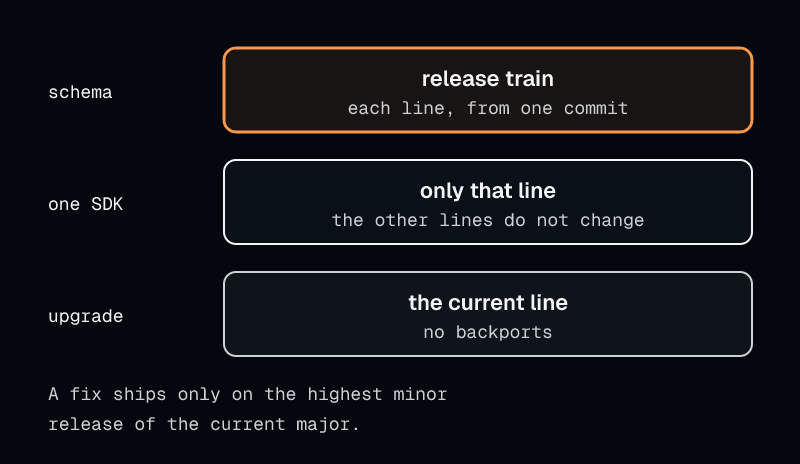
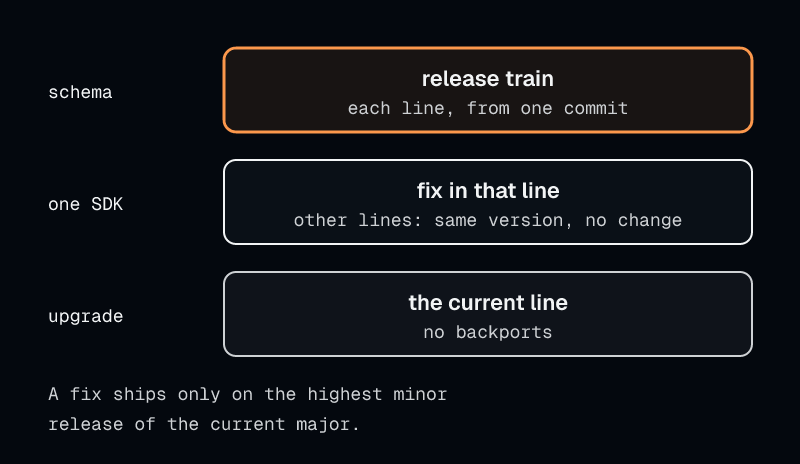
SM-1281 Keep the release lines in lockstep after 1.0.0
The compatibility document gave two rules for the release lines after
1.0.0. The release train said that every release publishes one version.
The 1.0.0 section said that the lines float again after 1.0.0. The
release check, the release workflows, and the Go release script follow
the first rule only. Thus a go/v1.1.0 tag with floating lines fails the
release check. SECURITY.md and the releases page also said that a fix in
one SDK releases only that line.

ADR 0106 keeps the six lines in lockstep before and after 1.0.0. If the
defect is in one SDK, the fix ships in a release train like any other
release. Each other line publishes the same version with no change, a
version-only release, as in 0.6.1 and 0.7.1. From 1.0.0, if a change
needs a major release on one line, the next release is a major for
every line. The ADR states what makes the maintainer revisit the
decision.

docs/compatibility.md, SECURITY.md, the releases page, and its diagram
now state the lockstep rule. ADRs 0028, 0054, 0058, 0059, 0079, 0084,
and 0103 keep their text and name ADR 0106 as an amendment.
pnpm release:check keeps its scope.

Changed region(s): [[0.375, 0.3922, 0.8438, 0.5129]]

diff --git a/scripts/releases-diagram.ts b/scripts/releases-diagram.ts
@@ -3,22 +3,24 @@ import { Diagram, MONO, SANS, type Theme } from "./diagram-svg.js";
 /**
  * The diagram of `site/content/docs/releases.mdx`. It uses the names of that page.
  *
- * "Upgrade to the current line to get a fix": the location of the defect decides which lines get a
- * new release. A defect in the SQL schema or in the protocol that the SDKs share gives each line
- * the fix in one release train. A defect in one SDK gives only that line a new release. The fix
- * ships only on the highest published minor release of the current major, with no backports.
+ * "Upgrade to the current line to get a fix": each fix ships in a release train, and the location of
+ * the defect decides which lines change. A defect in the SQL schema or in the protocol that the SDKs
+ * share gives each line the fix. A defect in one SDK gives that line the fix, and each other line
+ * publishes the same version with no change (ADR 0106). The fix ships only on the highest published
+ * minor release of the current major, with no backports.
  *
  * Check each fact against its source before you change a label.
  */
 
 type Kind = "focal" | "backend" | "store" | "external";
 
-const title = "The location of the defect decides which lines get a new release";
+const title = "The location of the defect decides which lines change in a release train";
 const description =
-  "If the defect is in the SQL schema or in the protocol that the SDKs share, the npm packages, " +
-  "Python, Go, Rust, Ruby, and JVM lines each get the fix in one release train. If the defect is in " +
-  "one SDK, for example Python, only that line gets a new release. Each fix ships only on the highest " +
-  "published minor release of the current major.";
+  "Each fix ships in a release train that publishes the npm packages, Python, Go, Rust, Ruby, and " +
+  "JVM lines at one version. If the defect is in the SQL schema or in the protocol that the SDKs " +
+  "share, each line gets the fix. If the defect is in one SDK, for example Python, that line gets " +
+  "the fix. Each other line publishes the same version with no change. Each fix ships only on " +
+  "the highest published minor release of the current major.";
 
 const lines = ["npm packages", "Python", "Go", "Rust", "Ruby", "JVM"] as const;
 
@@ -50,7 +52,7 @@ export const releaseLines = {
     });
     const right = x(lines.length - 1) + WIDTH;
     d.divider(LEFT, right, 52);
-    d.zone(LEFT - 8, 64, right - LEFT + 16, 80, "ONE RELEASE TRAIN · ONE COMMIT");
+    d.zone(LEFT - 8, 64, right - LEFT + 16, rows.length * 88 - 8, "ONE RELEASE TRAIN · ONE COMMIT");
     rows.forEach(([label, released], row) => {
       const y = 88 + row * 88;
       d.rows(
@@ -64,9 +66,9 @@ export const releaseLines = {
       );
       released.forEach((isReleased, col) => {
         if (isReleased) {
-          d.box(x(col), y, WIDTH, 44, "backend", "new release", undefined, 11);
+          d.box(x(col), y, WIDTH, 44, "backend", "fix", undefined, 11);
         } else {
-          d.rows(x(col) + WIDTH / 2, y + 26, [["no change", 9, "soft", MONO, 400]]);
+          d.rows(x(col) + WIDTH / 2, y + 26, [["version only", 9, "soft", MONO, 400]]);
         }
       });
     });
@@ -91,7 +93,7 @@ export const releaseLines = {
 
 const events: readonly (readonly [label: string, kind: Kind, name: string, sub: string])[] = [
   ["schema", "focal", "release train", "each line, from one commit"],
-  ["one SDK", "backend", "only that line", "the other lines do not change"],
+  ["one SDK", "backend", "fix in that line", "other lines: same version, no change"],
   ["upgrade", "store", "the current line", "no backports"],
 ];
 

diff --git a/docs/decisions/0106-keep-the-release-lines-in-lockstep-after-1-0-0.md b/docs/decisions/0106-keep-the-release-lines-in-lockstep-after-1-0-0.md
@@ -1,0 +1,138 @@
+# ADR 0106: Keep the release lines in lockstep after 1.0.0
+
+- **Status:** Accepted
+- **Date:** 2026-10-22
+- **Amends:** [ADR 0028](0028-flat-per-language-repository-layout.md) (package versions do not
+  float per language),
+  [ADR 0054](0054-define-what-1-0-0-promises.md) (the lines do not float again after
+  1.0.0),
+  [ADR 0058](0058-fix-the-current-line-and-gate-floors-on-upstream-end-of-life.md) (a fix in one SDK
+  releases every line),
+  [ADR 0059](0059-assemble-the-1-0-0-specification.md),
+  [ADR 0079](0079-govern-the-rust-api-as-an-eighth-surface.md),
+  [ADR 0084](0084-govern-the-ruby-api-as-a-ninth-surface.md),
+  [ADR 0103](0103-shape-the-jvm-sdk-as-a-java-core-with-kotlin-and-spring-boot-modules.md)
+- **Related:** [ADR 0050](0050-release-0-1-0-without-a-prerelease-suffix.md),
+  [ADR 0102](0102-keep-main-open-during-a-release-by-tagging-the-candidate-commit.md)
+- **Issue:** SM-1281. SM-1275 made `pnpm release:check` check every release path.
+
+## Context
+
+Workhorse publishes six release lines. They are the ten npm packages, the Python distribution, the
+Go module, the Rust crate, the Ruby gem, and the three JVM artifacts. A release line is the sequence
+of versions that one of these publishes.
+
+The documentation gave two rules for the lines after 1.0.0:
+
+1. `docs/compatibility.md`, "Release train": every release publishes the same version from one
+   source commit.
+2. ADR 0028 said that package versions float independently per language. ADR 0054 said that the
+   lines synchronize once at 1.0.0. After 1.0.0, each line floats independently. ADRs 0059, 0079,
+   0084, and 0103 repeated that rule.
+
+ADR 0058 also said that a defect in one SDK ships on that line alone, and that the other lines do
+not move. `SECURITY.md`, the site page `releases.mdx`, and its diagram repeated that rule.
+
+The release tooling follows the first rule only:
+
+1. `scripts/check-release.ts` reads every file that carries the release version, and it refuses a
+   candidate if one line has a different version, for every tag.
+2. The crate, gem, and Maven Central jobs of `.github/workflows/release.yml` have no tag of their
+   own. They publish from the npm `vX.Y.Z` tag and compare their version with it.
+3. `scripts/release-go.sh` refuses to tag unless `vX.Y.Z` and `python/vX.Y.Z` point to the same
+   commit (ADR 0102).
+
+Under the second rule, a `go/v1.1.0` tag fails the release check unless every line is at 1.1.0.
+
+The releases so far also follow the first rule. 0.6.1 exists only to publish the Python
+distribution with PEP 740 attestations. 0.7.1 exists only because the npm publish of 0.7.0 stopped
+partway. In both releases, every other line published the same version with no change. The
+changelog of each such line says so, for example "The crate has no changes in 0.6.1. It releases at
+0.6.1 to keep one version across the registries."
+
+## Decision
+
+The six release lines stay in lockstep before and after 1.0.0. Every release publishes every line
+at one version, from one source commit, as one release train. 1.0.0 is not a special
+synchronization. It is one more release of the train.
+
+### A fix in one line releases every line
+
+If the defect is in one SDK, the fix ships in a release train like any other release. Each other
+line publishes the same version with no change, a version-only release. The changelog of that line
+states that it has no changes, as the 0.6.1 and 0.7.1 changelogs do.
+
+The fix still ships only on the highest published minor of the current major (ADR 0058). This ADR
+changes which lines publish, not which versions receive a fix.
+
+### A major in one line is a major for every line
+
+This rule starts at 1.0.0. Before 1.0.0, a minor release can make a breaking change. From 1.0.0, if
+a change needs a major release on one line, the next release is a major release. Every line
+publishes that major. A line with no break publishes the major as a version-only release. Its
+changelog states that it has no breaking change.
+
+A break of `dashboard/v1` does not need a major release. It creates `dashboard/v2`, as
+`docs/compatibility.md` states.
+
+For the Go module, each major N from 2 also changes the module path to end in `/vN`. For example,
+2.0.0 uses `github.com/stablemates/workhorse/go/v2`. A Go caller must then change its import paths,
+also when the Go API has no break. 1.0.0 keeps the current module path.
+
+### `pnpm release:check` keeps its scope
+
+`scripts/check-release.ts` already checks one version for every line on every tag. It does not
+change. The crate, gem, and Maven Central steps of `release.yml` continue to publish from the npm
+tag.
+
+### Earlier records keep their text
+
+ADRs 0028, 0054, 0058, 0059, 0079, 0084, and 0103 keep their decision text. Their status block
+names this ADR as an amendment. `docs/compatibility.md`, `SECURITY.md`, and the site state the lockstep rule.
+
+## Why
+
+1. One version tells a reader which artifacts belong together. The SQL protocol, the schema floor,
+   and the dashboard bundle are the same in each line of one release.
+2. The release tooling, the release check, and the release procedure already assume one version on
+   one candidate commit. Floating lines need a separate tag and a separate check for the crate, the
+   gem, and the JVM artifacts. The project has no use for them now.
+3. A version-only release costs one changelog entry and one publish job. The 0.6.1 and 0.7.1
+   releases show that the cost is small.
+
+## Revisit this decision
+
+The maintainer revisits this decision if one of these occurs:
+
+1. A major release of one line forces a major for the other lines. The Go module path change
+   costs Go callers more than the shared version gives them.
+2. One line needs releases much more often than the others. The version-only releases of the other
+   lines become frequent.
+3. A registry needs a release that the other registries cannot publish in the same window. Thus one
+   train cannot publish all six lines.
+
+A change to floating lines must give each line its own tag. `scripts/check-release.ts` must then
+check each line against its own tag. The crate, gem, and Maven Central steps of `release.yml` must
+do the same. Tests must cover each check.
+
+## Consequences
+
+- Every release changes the version of every line, also of a line with no change.
+- A defect in one SDK cannot ship faster than one release train.
+- The Go module moves to a new module path at each major of the train from 2.0.0.
+- `docs/compatibility.md`, `SECURITY.md`, `site/content/docs/releases.mdx`, and its diagram state
+  one rule.
+
+## Rejected alternatives
+
+### Let the lines float after 1.0.0
+
+ADR 0054 chose this. Each line would follow SemVer on its own surfaces. Thus a break in one SDK
+would not move the others. It is rejected for now. The release tooling would need a tag and a check
+for each line, and no line has asked for an independent release yet.
+
+### Keep one minor version, and let each line take its own patch
+
+This keeps the lines close and lets a fix in one SDK skip the version-only releases. It is
+rejected. The crate, the gem, and the JVM artifacts publish from the npm tag. A patch on one of them
+would need a tag of its own.

diff --git a/docs/compatibility.md b/docs/compatibility.md
@@ -574,9 +574,11 @@ The release notes announce a `dashboard/v2` transition and give its upgrade step
 backend serves one bound contract rather than negotiating concurrent versions, so `Deprecation`
 and `Sunset` response headers do not apply.
 
-The six language lines float independently, and each line has its own governed surfaces. For
-example, a Go `/v2` does not move the TypeScript, Python, Rust, Ruby, or JVM major. Only a protocol
-break moves all six at once.
+Each language line has its own governed surfaces, but the six lines share one version. From 1.0.0,
+if a change needs a major release on one line, the next release is a major for every line. A line
+with no break publishes the major as a version-only release. For the Go module, each major N from 2
+also changes the module path to end in `/vN`, for example `github.com/stablemates/workhorse/go/v2`.
+[ADR 0106](decisions/0106-keep-the-release-lines-in-lockstep-after-1-0-0.md) records the decision.
 
 The runtime support matrix and the declared dependency ranges are not on this list. They move by
 their own rule, in a minor and only on upstream end of life; see [Raising a floor](#raising-a-floor).
@@ -664,8 +666,9 @@ the command anyway is the point: the procedure is the same one every other relea
 
 All six lines publish 1.0.0 from one source commit as one release train
 ([ADR 0079](decisions/0079-govern-the-rust-api-as-an-eighth-surface.md), [ADR 0084](decisions/0084-govern-the-ruby-api-as-a-ninth-surface.md)). A line that
-cannot clear the parity bar slips the train rather than being left behind. That synchronisation
-happens once; afterwards the six version lines float again as they do today.
+cannot clear the parity bar slips the train rather than being left behind. After 1.0.0 the six
+lines stay in lockstep, as every release before it does; see [Release train](#release-train) and
+[ADR 0106](decisions/0106-keep-the-release-lines-in-lockstep-after-1-0-0.md).
 
 At 1.0.0 the “public beta” label retires and “stable” replaces it.
 
@@ -811,6 +814,11 @@ commits can land on `main` during the release. Thus the maintainer must create e
 candidate SHA, for example `git tag --annotate vX.Y.Z <sha>`, not on the current tip of `main`.
 Nobody may cancel the `main` CI push run of the candidate commit, because each release workflow
 requires that run to succeed.
+
+The rule does not change at a major release. If the defect is in one SDK, the fix ships in a
+release train like any other release. Each other line publishes the same version with no change, a
+version-only release. The changelog of that line states that it has no changes.
+[ADR 0106](decisions/0106-keep-the-release-lines-in-lockstep-after-1-0-0.md) records the decision.
 
 The Rust crate and the Ruby gem have no tag of their own. Each rides the npm `v*` tag and publishes
 after npm, as [Rust crate](#rust-crate) and [Ruby gem](#ruby-gem) describe. The three JVM artifacts

diff --git a/SECURITY.md b/SECURITY.md
@@ -81,9 +81,11 @@ CI runs `pnpm jvm:verification-metadata:check`. It fails if a file is not curren
 nowhere else.** There are no maintenance branches, no backports, and no long-term-support
 designation. An older minor does not receive a fix; upgrade to the current line to receive one.
 
-The affected lines are the ones that contain the vulnerable code. A problem in the SQL schema or
-the protocol is fixed on all six lines as one release train. A problem in one SDK ships on that
-line alone.
+The affected lines are the ones that contain the vulnerable code. Every release publishes all six
+lines at one version, as one release train. If the defect is in one SDK, the fix ships in a release
+train like any other release. Each other line publishes the same version with no change, a
+version-only release
+([ADR 0106](docs/decisions/0106-keep-the-release-lines-in-lockstep-after-1-0-0.md)).
 
 The six lines are these:
 

diff --git a/docs/decisions/0059-assemble-the-1-0-0-specification.md b/docs/decisions/0059-assemble-the-1-0-0-specification.md
@@ -9,7 +9,8 @@
   [ADR 0102](0102-keep-main-open-during-a-release-by-tagging-the-candidate-commit.md) (every tag of
   the release train points to the candidate commit, and other commits can land on `main`),
   [ADR 0103](0103-shape-the-jvm-sdk-as-a-java-core-with-kotlin-and-spring-boot-modules.md) (the specification assembles eleven surfaces; the tenth is the
-  Java API and the eleventh is the Kotlin API)
+  Java API and the eleventh is the Kotlin API),
+  [ADR 0106](0106-keep-the-release-lines-in-lockstep-after-1-0-0.md) (the lines stay in lockstep after 1.0.0)
 - **Related:** [ADR 0054](0054-define-what-1-0-0-promises.md),
   [ADR 0055](0055-the-1-0-0-schema-boundary-adds-no-migration.md),
   [ADR 0056](0056-set-the-1-0-0-exit-criteria.md),

diff --git a/docs/decisions/0054-define-what-1-0-0-promises.md b/docs/decisions/0054-define-what-1-0-0-promises.md
@@ -9,7 +9,8 @@
   [ADR 0084](0084-govern-the-ruby-api-as-a-ninth-surface.md) (the Ruby API is a ninth governed surface, and the gem rides
   the 1.0.0 train),
   [ADR 0103](0103-shape-the-jvm-sdk-as-a-java-core-with-kotlin-and-spring-boot-modules.md) (the Java API is a tenth governed surface, the Kotlin API is an
-  eleventh, and the three JVM artifacts ride the 1.0.0 train)
+  eleventh, and the three JVM artifacts ride the 1.0.0 train),
+  [ADR 0106](0106-keep-the-release-lines-in-lockstep-after-1-0-0.md) (the lines stay in lockstep after 1.0.0)
 - **Related:** [ADR 0053](0053-start-migrations-at-0-1-0-and-keep-them-additive.md),
   [ADR 0056](0056-set-the-1-0-0-exit-criteria.md),
   WH-578,

diff --git a/docs/decisions/0058-fix-the-current-line-and-gate-floors-on-upstream-end-of-life.md b/docs/decisions/0058-fix-the-current-line-and-gate-floors-on-upstream-end-of-life.md
@@ -3,6 +3,8 @@
 - **Status:** Accepted
 - **Date:** 2026-09-02
 - **Assembled by:** [ADR 0059](0059-assemble-the-1-0-0-specification.md)
+- **Amended by:** [ADR 0106](0106-keep-the-release-lines-in-lockstep-after-1-0-0.md) (a fix in one SDK
+  releases every line, and each other line publishes a version-only release)
 - **Related:** [ADR 0054](0054-define-what-1-0-0-promises.md),
   [ADR 0056](0056-set-the-1-0-0-exit-criteria.md),
   [ADR 0057](0057-retain-superseded-functions-and-contract-on-the-operators-schedule.md),

diff --git a/docs/decisions/0103-shape-the-jvm-sdk-as-a-java-core-with-kotlin-and-spring-boot-modules.md b/docs/decisions/0103-shape-the-jvm-sdk-as-a-java-core-with-kotlin-and-spring-boot-modules.md
@@ -6,6 +6,8 @@
   [ADR 0054](0054-define-what-1-0-0-promises.md),
   [ADR 0056](0056-set-the-1-0-0-exit-criteria.md),
   [ADR 0059](0059-assemble-the-1-0-0-specification.md)
+- **Amended by:** [ADR 0106](0106-keep-the-release-lines-in-lockstep-after-1-0-0.md) (the lines stay in
+  lockstep after 1.0.0)
 - **Related:** [ADR 0018](0018-framework-neutral-dashboard-host.md),
   [ADR 0023](0023-language-sdks-and-http-boundaries.md),
   [ADR 0028](0028-flat-per-language-repository-layout.md),

diff --git a/docs/decisions/0084-govern-the-ruby-api-as-a-ninth-surface.md b/docs/decisions/0084-govern-the-ruby-api-as-a-ninth-surface.md
@@ -5,6 +5,8 @@
 - **Amends:** [ADR 0054](0054-define-what-1-0-0-promises.md),
   [ADR 0056](0056-set-the-1-0-0-exit-criteria.md),
   [ADR 0059](0059-assemble-the-1-0-0-specification.md)
+- **Amended by:** [ADR 0106](0106-keep-the-release-lines-in-lockstep-after-1-0-0.md) (the lines stay in
+  lockstep after 1.0.0)
 - **Related:** [ADR 0075](0075-shape-the-ruby-sdk-as-one-gem-with-an-active-job-adapter.md),
   [ADR 0079](0079-govern-the-rust-api-as-an-eighth-surface.md),
   SM-904,

diff --git a/docs/decisions/0079-govern-the-rust-api-as-an-eighth-surface.md b/docs/decisions/0079-govern-the-rust-api-as-an-eighth-surface.md
@@ -5,6 +5,8 @@
 - **Amends:** [ADR 0054](0054-define-what-1-0-0-promises.md),
   [ADR 0056](0056-set-the-1-0-0-exit-criteria.md),
   [ADR 0059](0059-assemble-the-1-0-0-specification.md)
+- **Amended by:** [ADR 0106](0106-keep-the-release-lines-in-lockstep-after-1-0-0.md) (the lines stay in
+  lockstep after 1.0.0)
 - **Related:** [ADR 0074](0074-shape-the-rust-sdk-as-one-python-shaped-crate.md),
   SM-894,
   SM-34,

diff --git a/docs/decisions/0028-flat-per-language-repository-layout.md b/docs/decisions/0028-flat-per-language-repository-layout.md
@@ -2,6 +2,8 @@
 
 - **Status:** Accepted
 - **Date:** 2026-08-15
+- **Amended by:** [ADR 0106](0106-keep-the-release-lines-in-lockstep-after-1-0-0.md) (the package
+  versions of every language share one version)
 - **Related:** [ADR 0023](0023-language-sdks-and-http-boundaries.md), [ADR 0027](0027-keep-versioned-dashboard-views.md)
 
 ## Context
